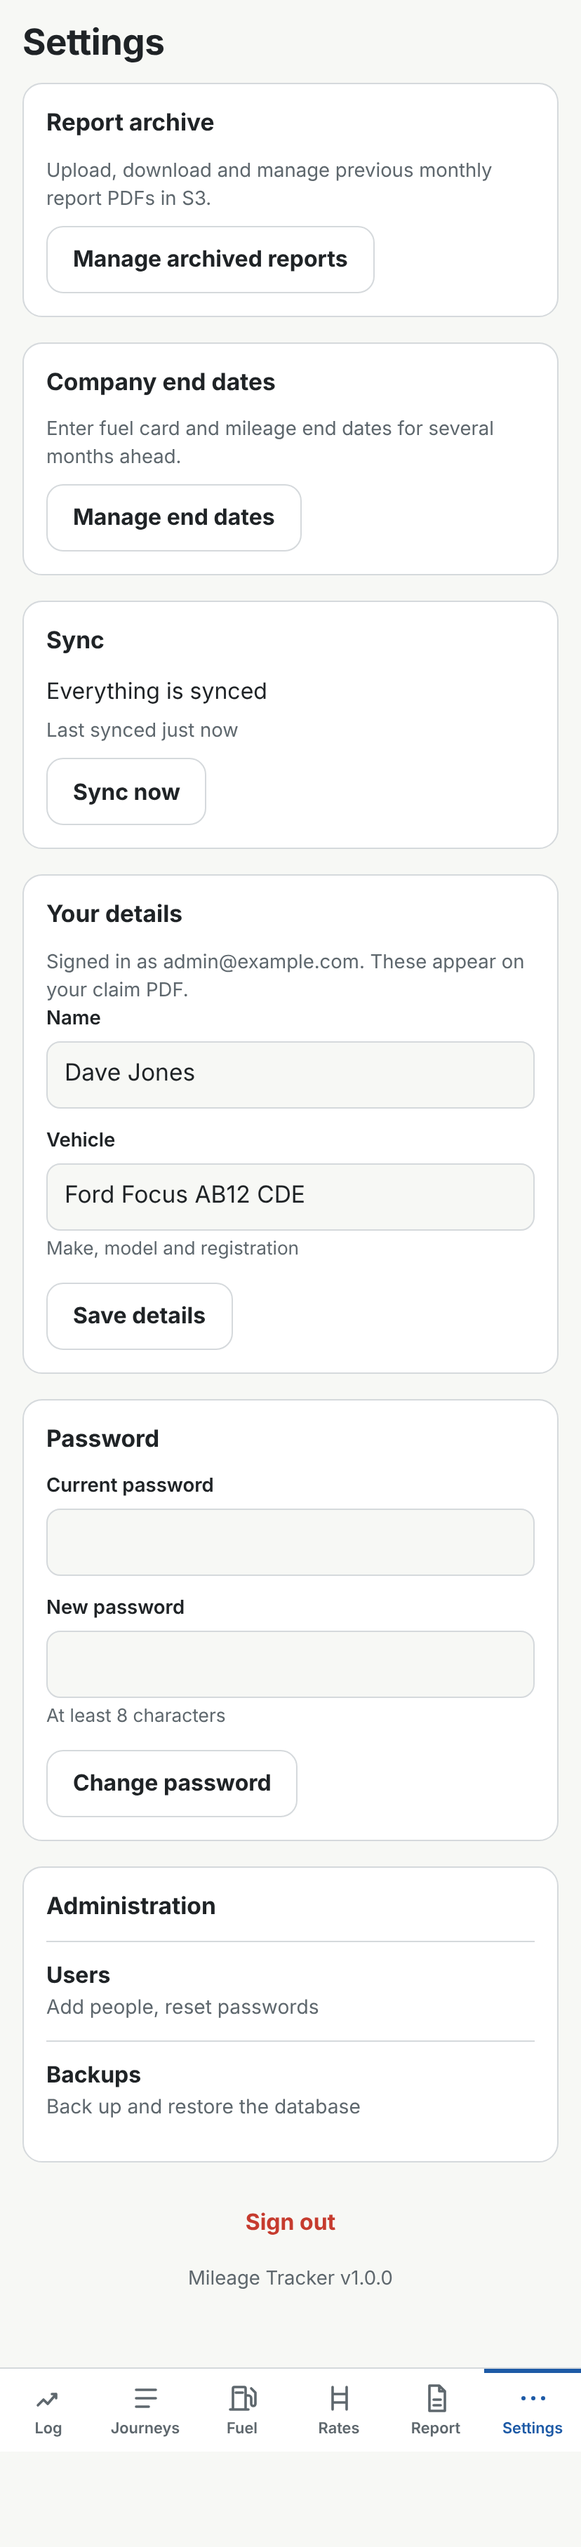
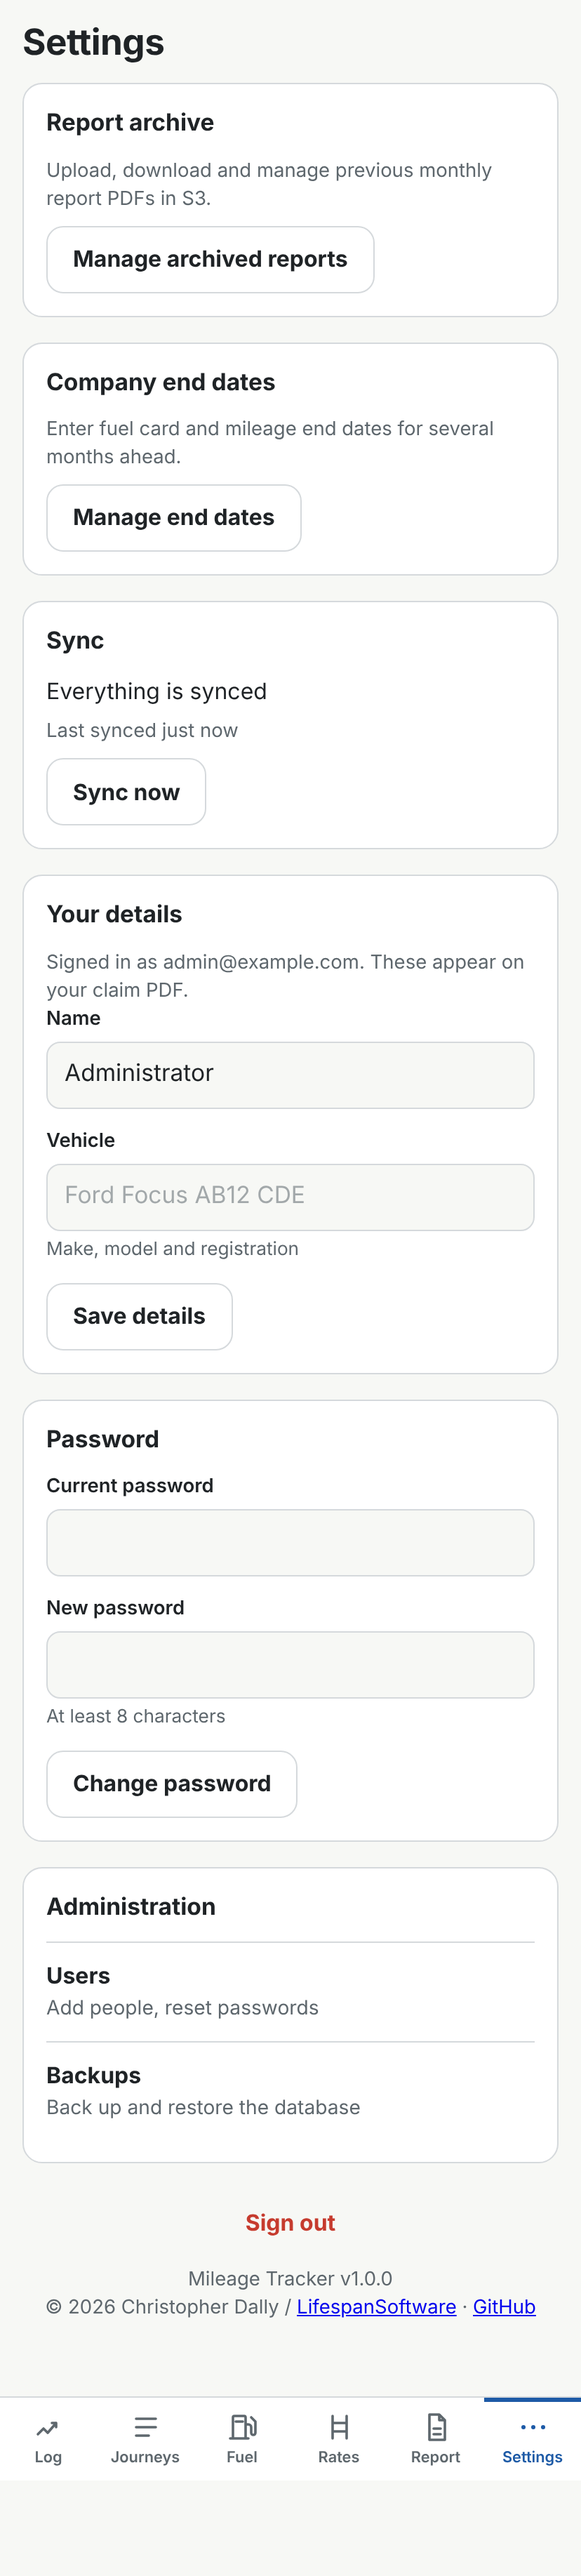
Add copyright notice to Settings panel
Show "© <year> Christopher Dally / LifespanSoftware" under the app
version, linking to lifespansoftware.com and the GitHub repository.
Updated the Settings screenshot in docs/screenshots to match.

Claude-Session: https://claude.ai/code/session_011cjeWDDmqDs1PQbyrDeCLU

diff --git a/client/src/screens/More.jsx b/client/src/screens/More.jsx
@@ -112,7 +112,14 @@ export function MoreScreen({ user, onUser, onSignOut, go }) {
 
       <button type="button" className="btn btn-danger-quiet btn-block" onClick={() => onSignOut(pending)}>Sign out</button>
 
-      <p className="muted small about-version">Mileage Tracker v{__APP_VERSION__}</p>
+      <p className="muted small about-version">
+        Mileage Tracker v{__APP_VERSION__}
+        <br />
+        © {new Date().getFullYear()} Christopher Dally /{' '}
+        <a href="https://lifespansoftware.com/" target="_blank" rel="noopener">LifespanSoftware</a>
+        {' · '}
+        <a href="https://github.com/christopherdally/mileage-tracker" target="_blank" rel="noopener">GitHub</a>
+      </p>
     </div>
   );
 }
